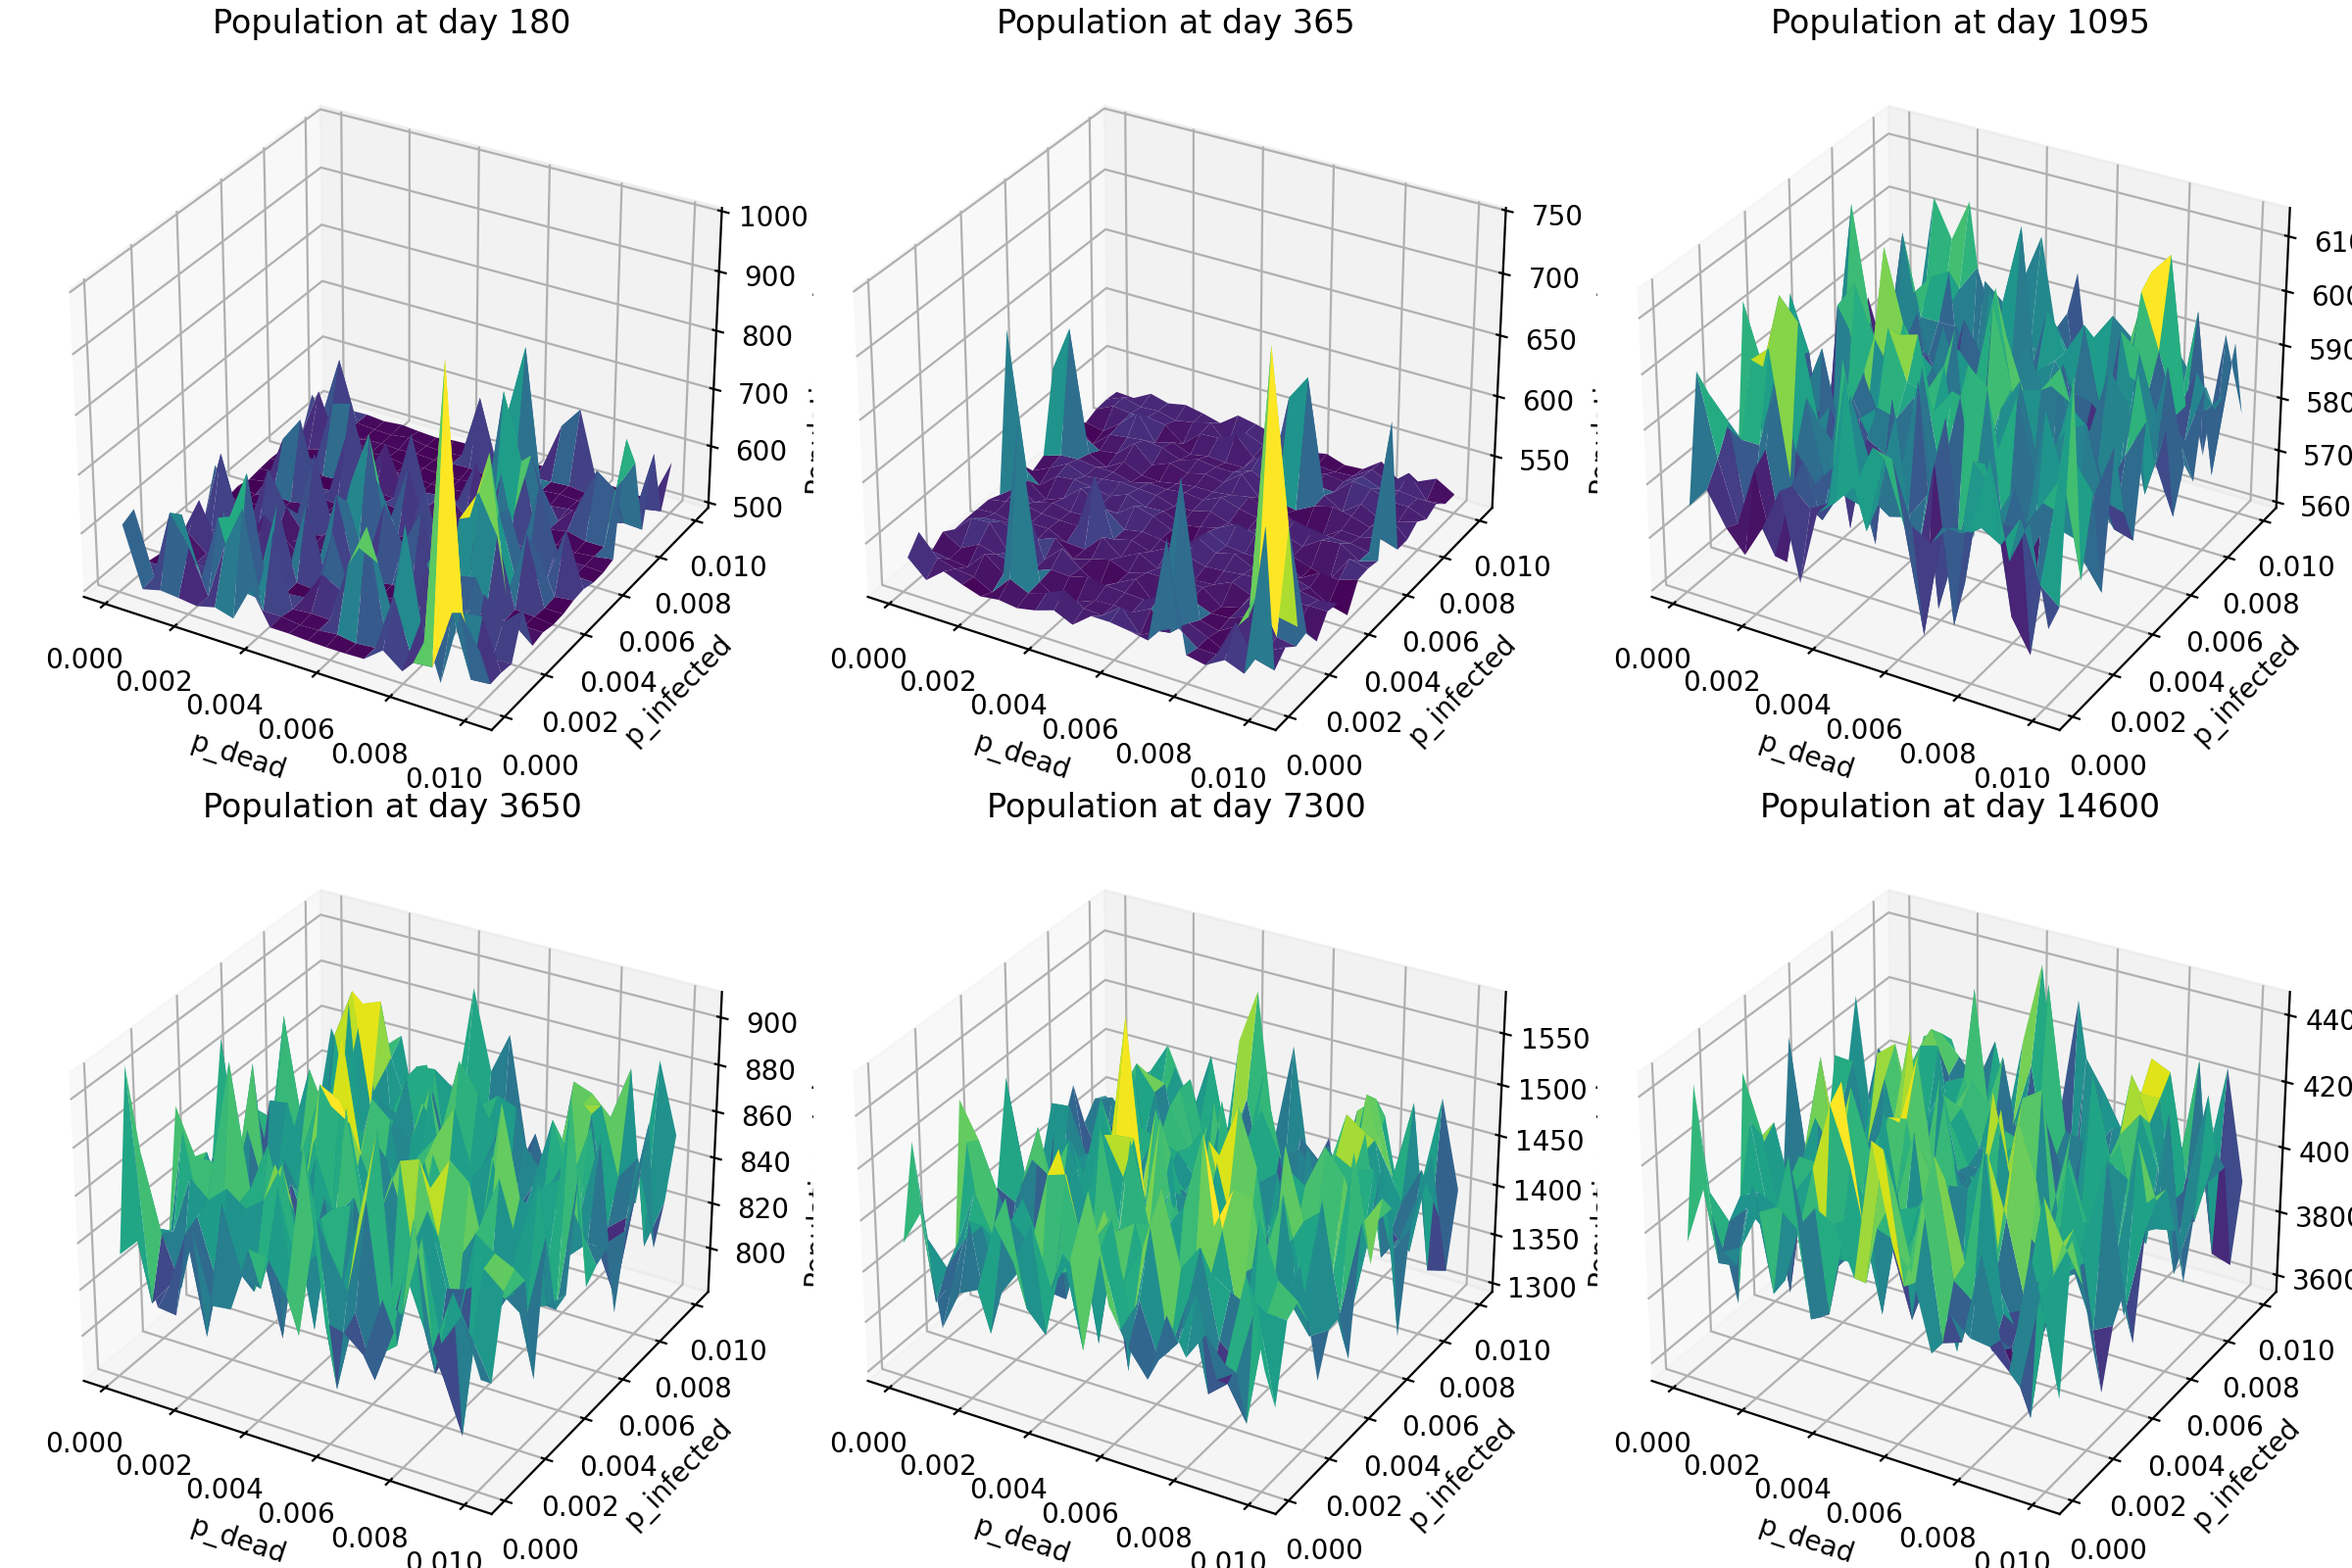
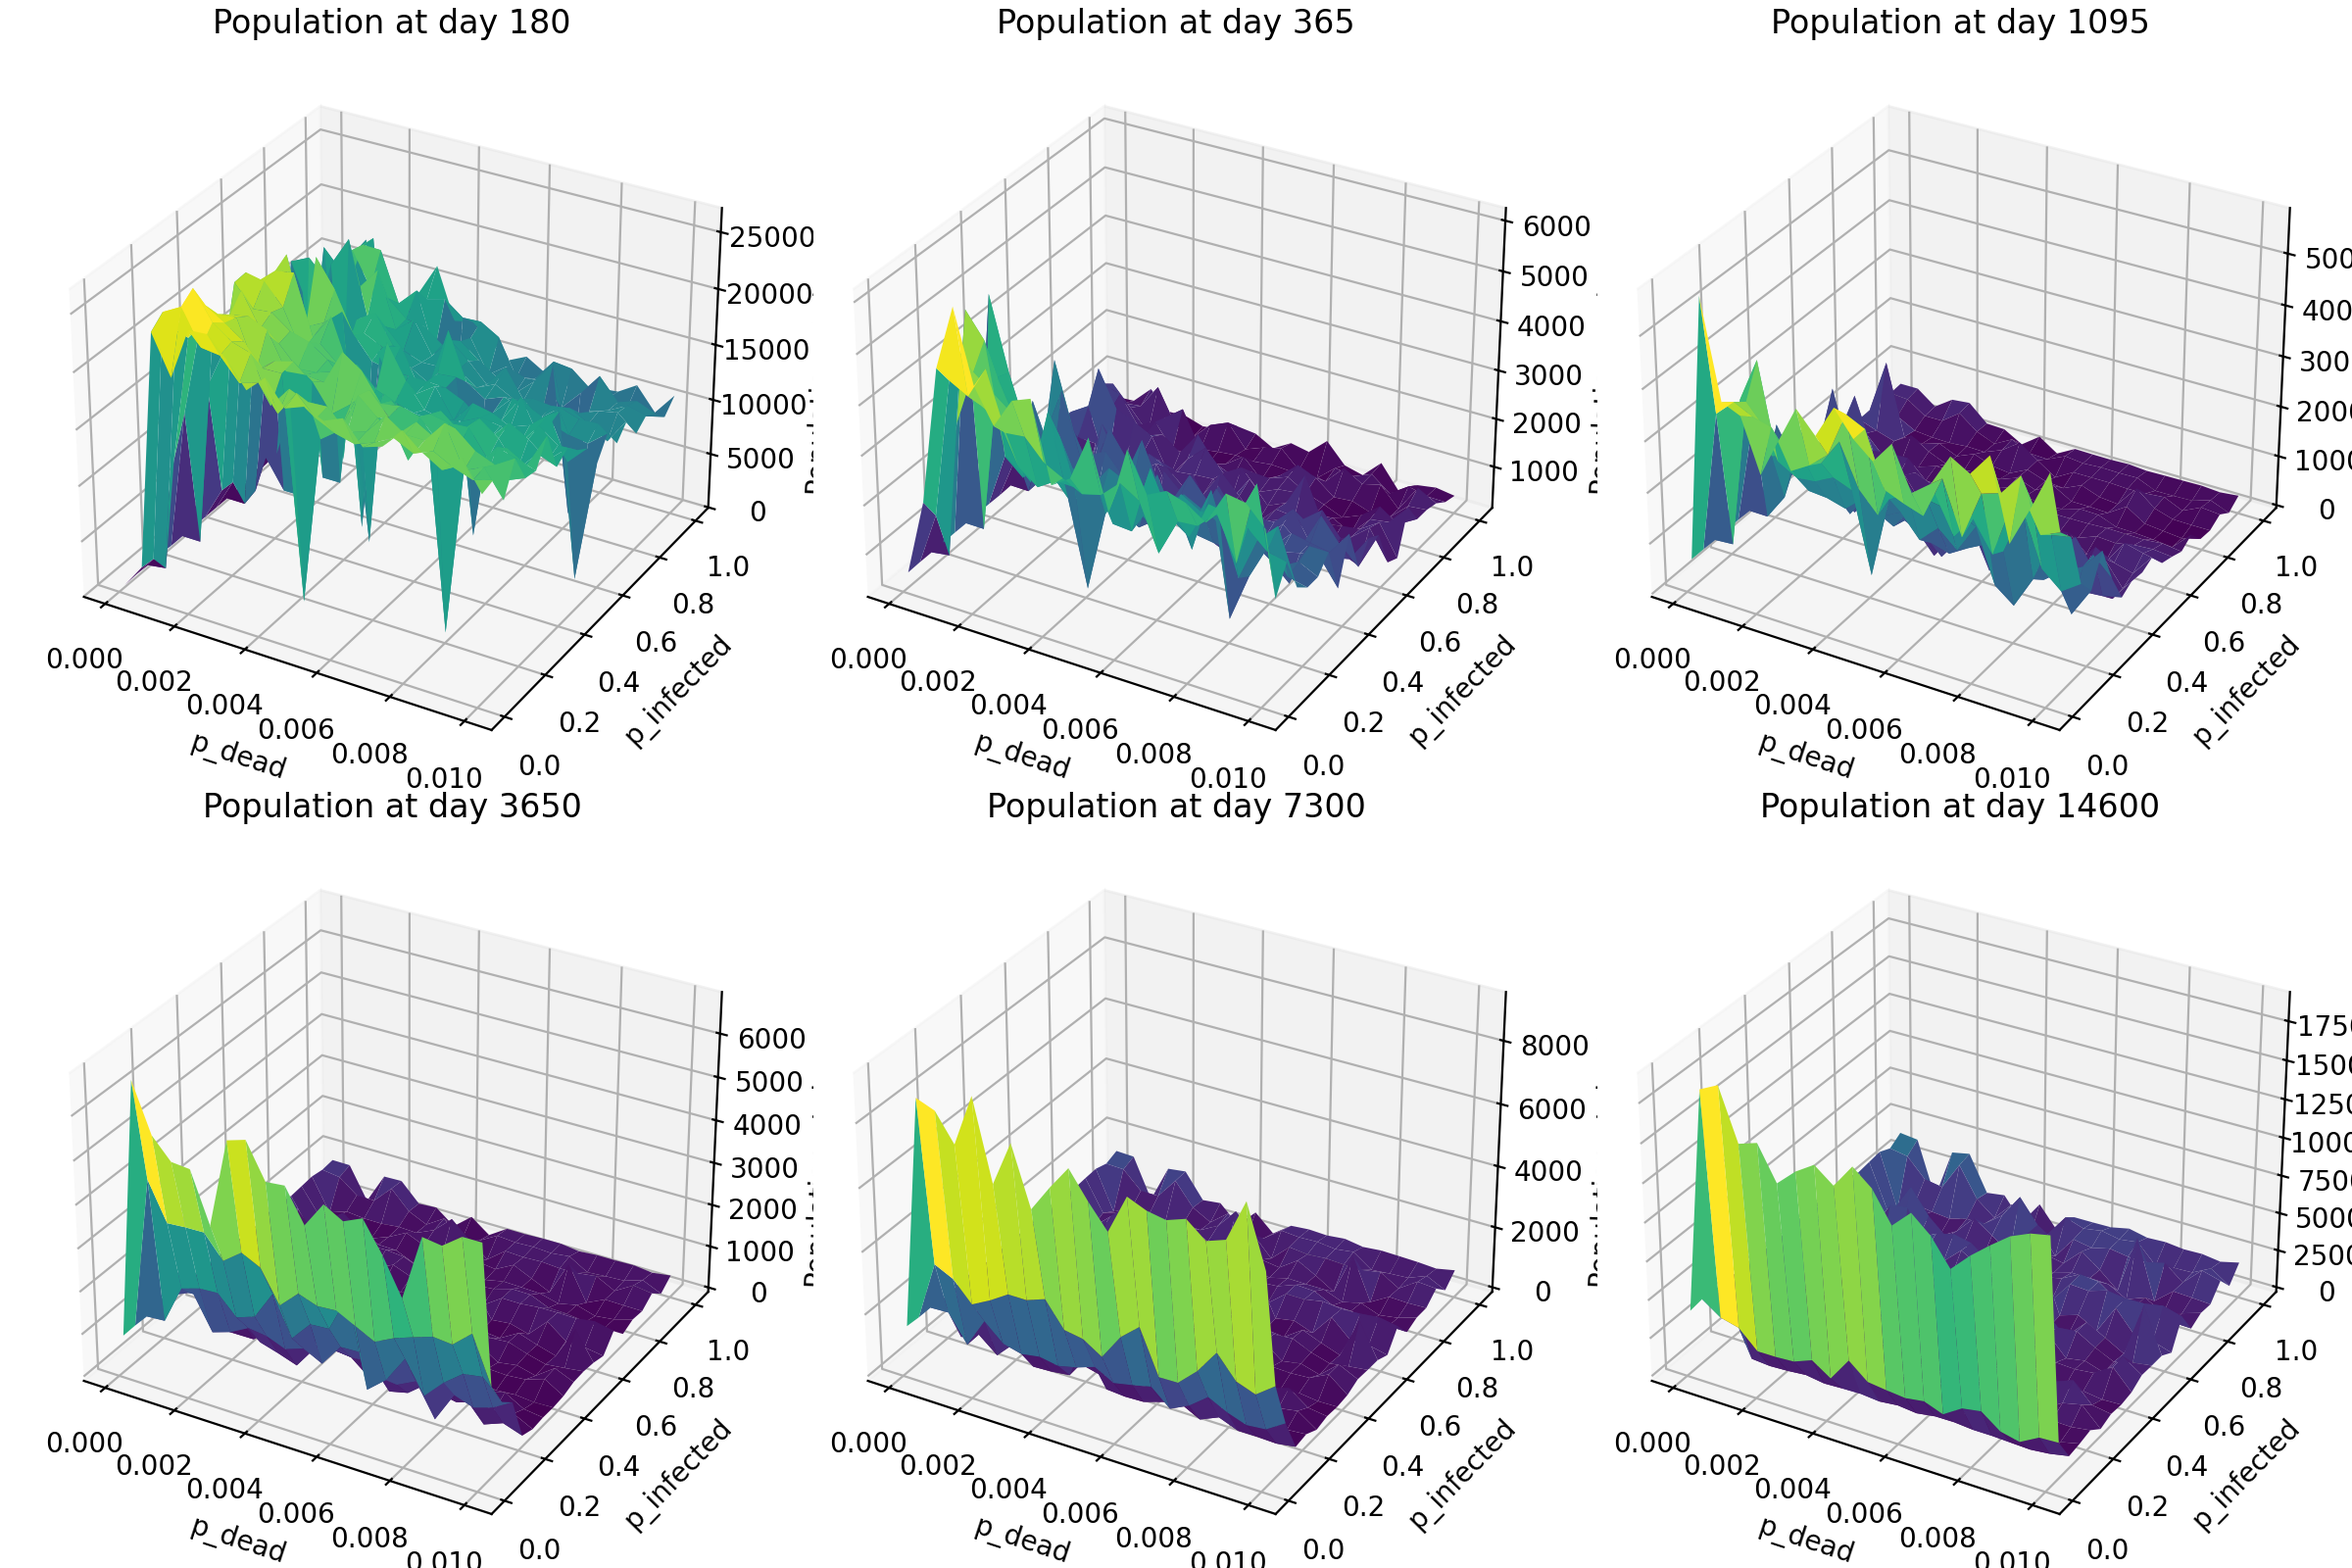
test new rules

diff --git a/simulate/rules.py b/simulate/rules.py
@@ -34,7 +34,7 @@ def update_environment(state, agg, parameters):
 def update_individuals(state, env, parameters):
     Wa, Fo, Te, Hu, WNS = env["Wa"], env["Fo"], env["Te"], env["Hu"], env["WNS"]
     p_awake, p_dead, p_hibernate, p_infected, p_recover, p_netchange = parameters["p_awake"], parameters["p_dead"], parameters["p_hibernate"], parameters["p_infected"], parameters["p_recover"], parameters["p_netchange"]
-    food, water, immunity_period = parameters["food"], parameters["water"], parameters["immunity_period"]
+    food, water, immunity_period, contact_rate = parameters["food"], parameters["water"], parameters["immunity_period"], parameters["contact_rate"]
 
     Hi_next  = []
     NHi_NIn_next = []
@@ -53,6 +53,10 @@ def update_individuals(state, env, parameters):
 
     infected = len(state["In"])
     susceptible = len(state["Hi"]) + len(state["NHi_NIn"])
+    if susceptible != 0:
+        SIR_infection_rate = (p_infected * contact_rate * infected / susceptible)
+    else:
+        SIR_infection_rate = 0
 
     De_next  = state["De"][:]
     if len(De_next) < total_inhabitants:
@@ -64,7 +68,7 @@ def update_individuals(state, env, parameters):
     for i in range(len(state["Hi"])):
         Hi = state["Hi"][i]
 
-        if WNS and Hi and Te == 0 and rand.uniform(0, 1) <= (p_infected * infected / susceptible): # rule 9
+        if WNS and Hi and Te == 0 and rand.uniform(0, 1) <= SIR_infection_rate: # rule 9
             In_next.append(1)
         elif not Te and Hi and rand.uniform(0, 1) <= p_awake: # rule 1
             NHi_NIn_next.append(1)

diff --git a/simulate/bifurcations/bifurcations_2D.py b/simulate/bifurcations/bifurcations_2D.py
@@ -34,14 +34,15 @@ food = 170              # OKAY # number of bats it would take to deplete food co
 
 time = 3650             # total days
 winter = 120            # CONFIDENT # length of winter season in Nebraska mines
-immunity_period = 0    # number of days spent in recovery before re-infection is possible
+immunity_period = 20    # number of days spent in recovery before re-infection is possible
+contact_rate = 20       # population-dependent rate of contact btwn health bat and WNS infected bat or surface rate of contact btwn health bat and WNS infected bat or surface
 
 # ------------------
 # bifurcation values
 # ------------------
 
 times_list = [180, 365, 3*365, 10*365, 20*365, 40*365]
-parameters_list = np.linspace(0.001,0.5,20)
+parameters_list = np.linspace(0.001,1.0,50)
 totals_list = []
 
 param_change = "p_recover"
@@ -117,7 +118,8 @@ def main():
         "water": water,
         "food": food,
         "winter": winter,
-        "immunity_period": immunity_period
+        "immunity_period": immunity_period,
+        "contact_rate": contact_rate,
     }
 
     for i in range(len(parameters_list)):
@@ -128,7 +130,7 @@ def main():
         totals_list.append(total)
         print(f"{i}/{len(parameters_list)}")
 
-    fig, axes = plt.subplots(nrows=3, ncols=2, figsize=(8, 10))
+    fig, axes = plt.subplots(nrows=2, ncols=3, figsize=(8, 10))
     axes = axes.ravel() # for iteration
 
     for i, time in enumerate(times_list):

diff --git a/simulate/running_solvers/run_tests.py b/simulate/running_solvers/run_tests.py
@@ -39,7 +39,8 @@ def sample_params():
         "water": rand.uniform(100,5000),
         "food": rand.uniform(100,5000),
         "winter": 120,
-        "immunity_period": immunity_period
+        "immunity_period": immunity_period,
+        "contact_rate": contact_rate
     }
 
 # ------------------------------------------
@@ -72,6 +73,7 @@ food = 5000             # number of bats it would take to deplete food completel
 time = 120              # total days
 winter = 120            # length of winter season
 immunity_period = 10    # number of days spent in recovery before re-infection is possible
+contact_rate = 20       # population-dependent rate of contact btwn health bat and WNS infected bat or surface
 
 # ----------
 # initialize
@@ -167,7 +169,8 @@ def main():
         "water": water,
         "food": food,
         "winter": winter,
-        "immunity_period": immunity_period
+        "immunity_period": immunity_period,
+        "contact_rate": contact_rate
     }
 
     best = None

diff --git a/simulate/running_solvers/run_tests_parallel.py b/simulate/running_solvers/run_tests_parallel.py
@@ -40,7 +40,8 @@ def sample_params():
         "water": rand.uniform(100,500),
         "food": rand.uniform(100,500),
         "winter": 120,
-        "immunity_period": immunity_period
+        "immunity_period": immunity_period,
+        "contact_rate": contact_rate
     }
 
 # ------------------------------------------
@@ -73,6 +74,7 @@ food = 5000             # number of bats it would take to deplete food completel
 time = 120              # total days
 winter = 120            # length of winter season
 immunity_period = 10    # number of days spent in recovery before re-infection is possible
+contact_rate = 20       # population-dependent rate of contact btwn health bat and WNS infected bat or surface
 
 # ----------
 # initialize
@@ -171,7 +173,8 @@ def main():
         "water": water,
         "food": food,
         "winter": winter,
-        "immunity_period": immunity_period
+        "immunity_period": immunity_period,
+        "contact_rate": contact_rate
     }
 
     best = None

diff --git a/simulate/running_solvers/run.py b/simulate/running_solvers/run.py
@@ -34,6 +34,7 @@ food = 350             # OKAY # number of bats it would take to deplete food com
 time = 3650              # total days
 winter = 120            # CONFIDENT # length of winter season in Nebraska mines
 immunity_period = 10    # number of days spent in recovery before re-infection is possible
+contact_rate = 20       # population-dependent rate of contact btwn health bat and WNS infected bat or surface
 
 # ----------
 # initialize
@@ -106,11 +107,12 @@ def main():
         "water": water,
         "food": food,
         "winter": winter,
-        "immunity_period": immunity_period
+        "immunity_period": immunity_period,
+        "contact_rate": contact_rate
     }
 
     history = simulate(make_initial_state(), steps=time, parameters=parameters)
-    plot_history(history)
+    plot_history_highlights(history, winter)
 
 if __name__ == "__main__":
     main()

diff --git a/simulate/bifurcations/bifurcations_3D.py b/simulate/bifurcations/bifurcations_3D.py
@@ -36,6 +36,7 @@ food = 170              # OKAY # number of bats it would take to deplete food co
 time = 3650             # total days
 winter = 120            # CONFIDENT # length of winter season in Nebraska mines
 immunity_period = 130    # number of days spent in recovery before re-infection is possible
+contact_rate = 20       # population-dependent rate of contact btwn health bat and WNS infected bat or surface
 
 # last tested 60
 # ------------------
@@ -126,7 +127,8 @@ def main():
         "water": water,
         "food": food,
         "winter": winter,
-        "immunity_period": immunity_period
+        "immunity_period": immunity_period,
+        "contact_rate": contact_rate
     }
 
     for i in range(len(parameters_list[0])):
